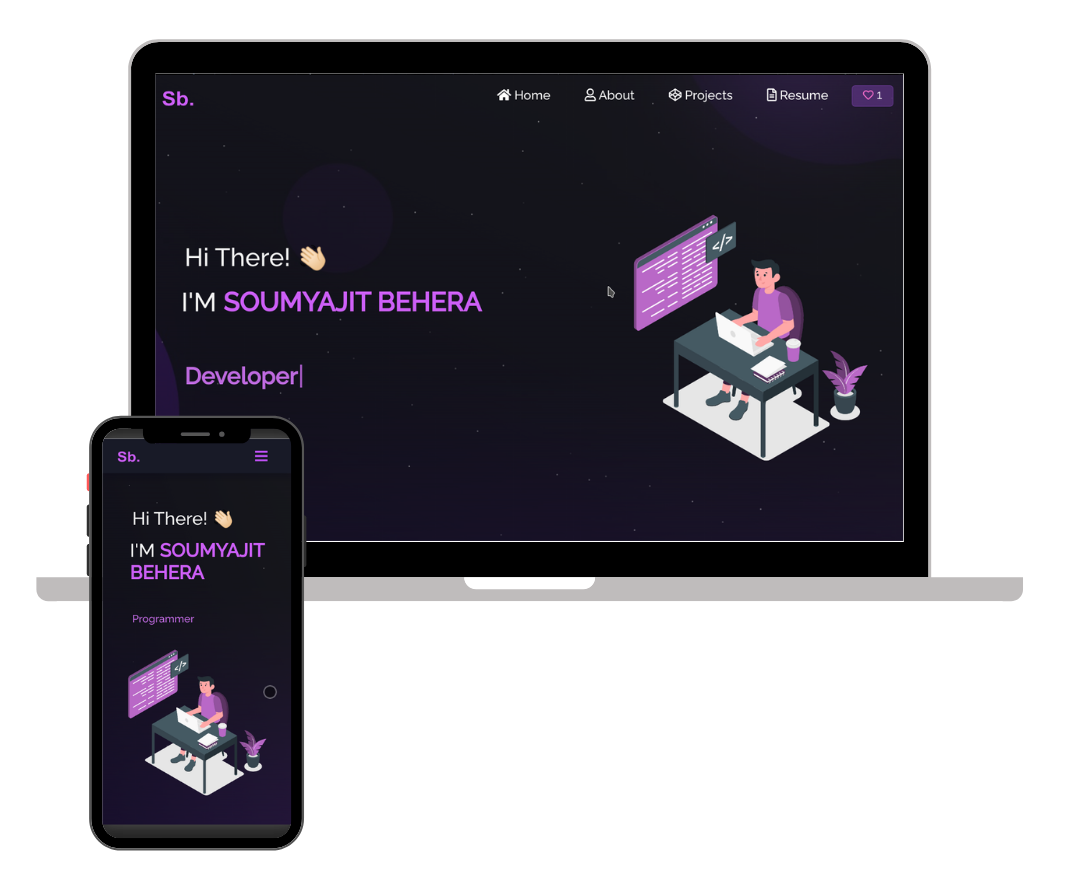
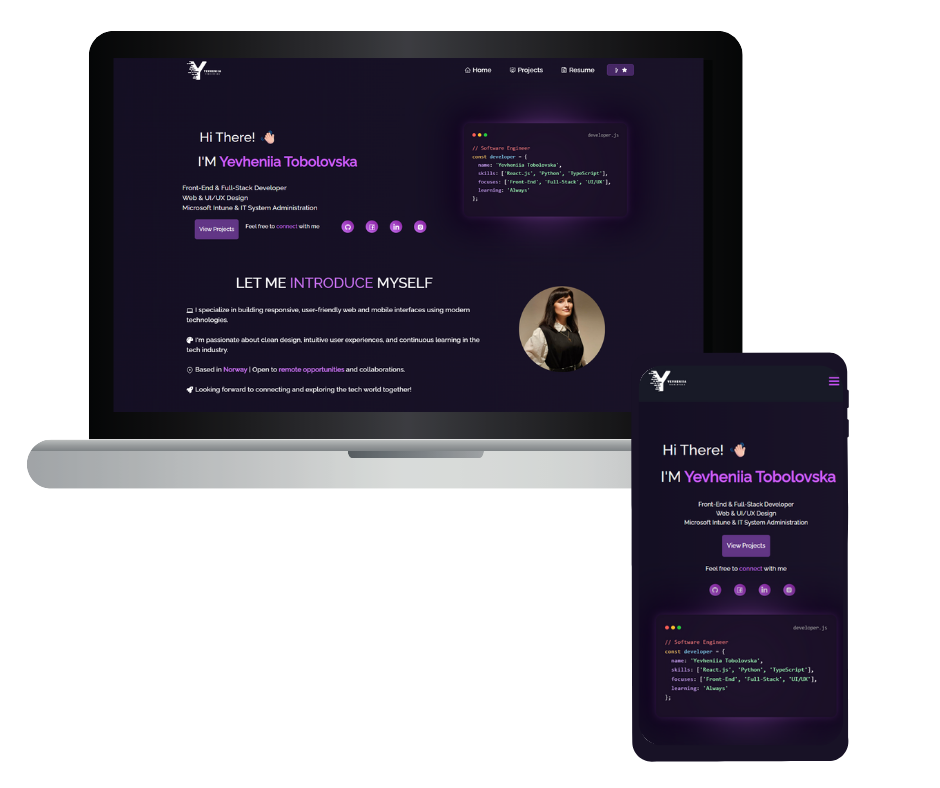
img

diff --git a/src/style.css b/src/style.css
@@ -367,8 +367,6 @@ button:focus {
   text-align: center !important;
   font-size: 1.2em !important;
   line-height: 2em !important;
-  background: rgba(255, 255, 255, 0.972) !important;
-  border-radius: 50% !important;
   transition: 0.5s !important;
 }
 
@@ -380,7 +378,7 @@ button:focus {
   width: 100%;
   height: 100%;
   border-radius: 50%;
-  background: #68187a;
+  background: linear-gradient(45deg, #c770f0, #87209e);
   transition: 0.5s;
   transform: scale(0.9);
   z-index: -1;
@@ -388,7 +386,7 @@ button:focus {
 
 .home-social-icons:hover::before {
   transform: scale(1.1);
-  box-shadow: 0 0 15px #801f95;
+  box-shadow: 0 0 15px #770893;
 }
 
 .home-social-icons:hover {
@@ -404,7 +402,43 @@ button:focus {
 }
 
 .icon-colour {
-  color: #700c86 !important;
+  color: white !important;
+}
+
+@media (max-width: 767px) {
+  .home-about-social-links {
+    display: flex !important;
+    justify-content: center !important;
+    align-items: center !important;
+    flex-wrap: wrap !important;
+  }
+  .home-about-social {
+    flex-direction: column !important;
+    align-items: center !important;
+    gap: 10px !important;
+  }
+  
+  .home-social-icons {
+    width: 35px !important;
+    height: 35px !important;
+    font-size: 1.1em !important;
+    line-height: 1.8em !important;
+  }
+
+  .home-action-row {
+    flex-direction: column;
+    align-items: center;
+  }
+
+  .home-about-description {
+    padding-top: 20px !important;
+    padding-bottom: 10px !important;
+  }
+
+  .home-about-body {
+    font-size: 1em !important;
+    text-align: center !important;
+  }
 }
 
 
